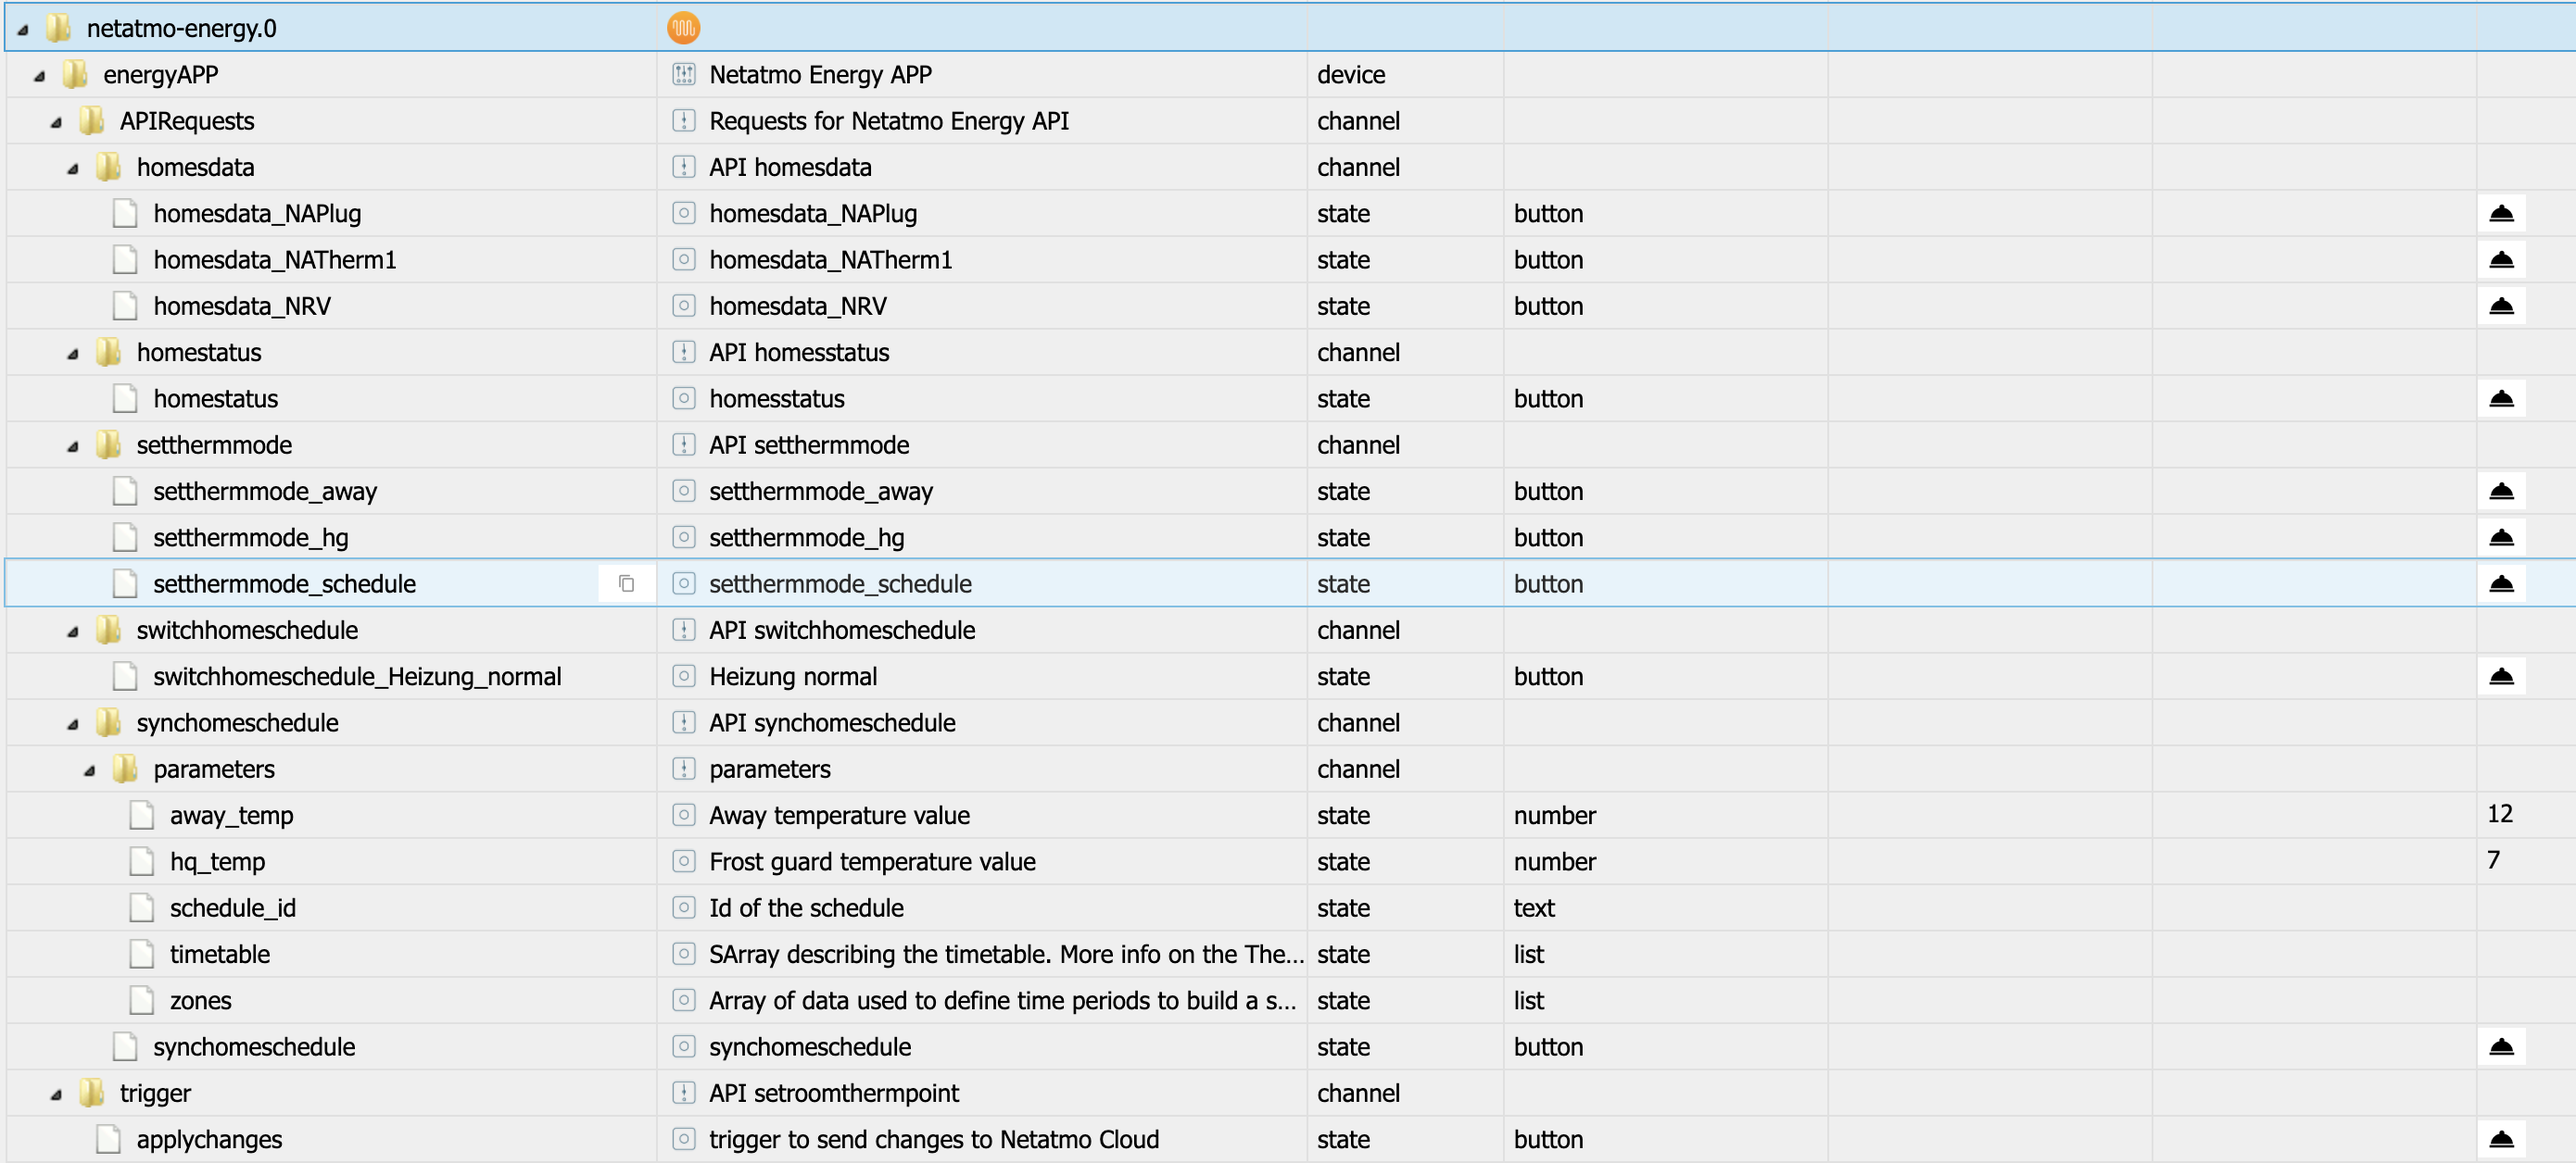
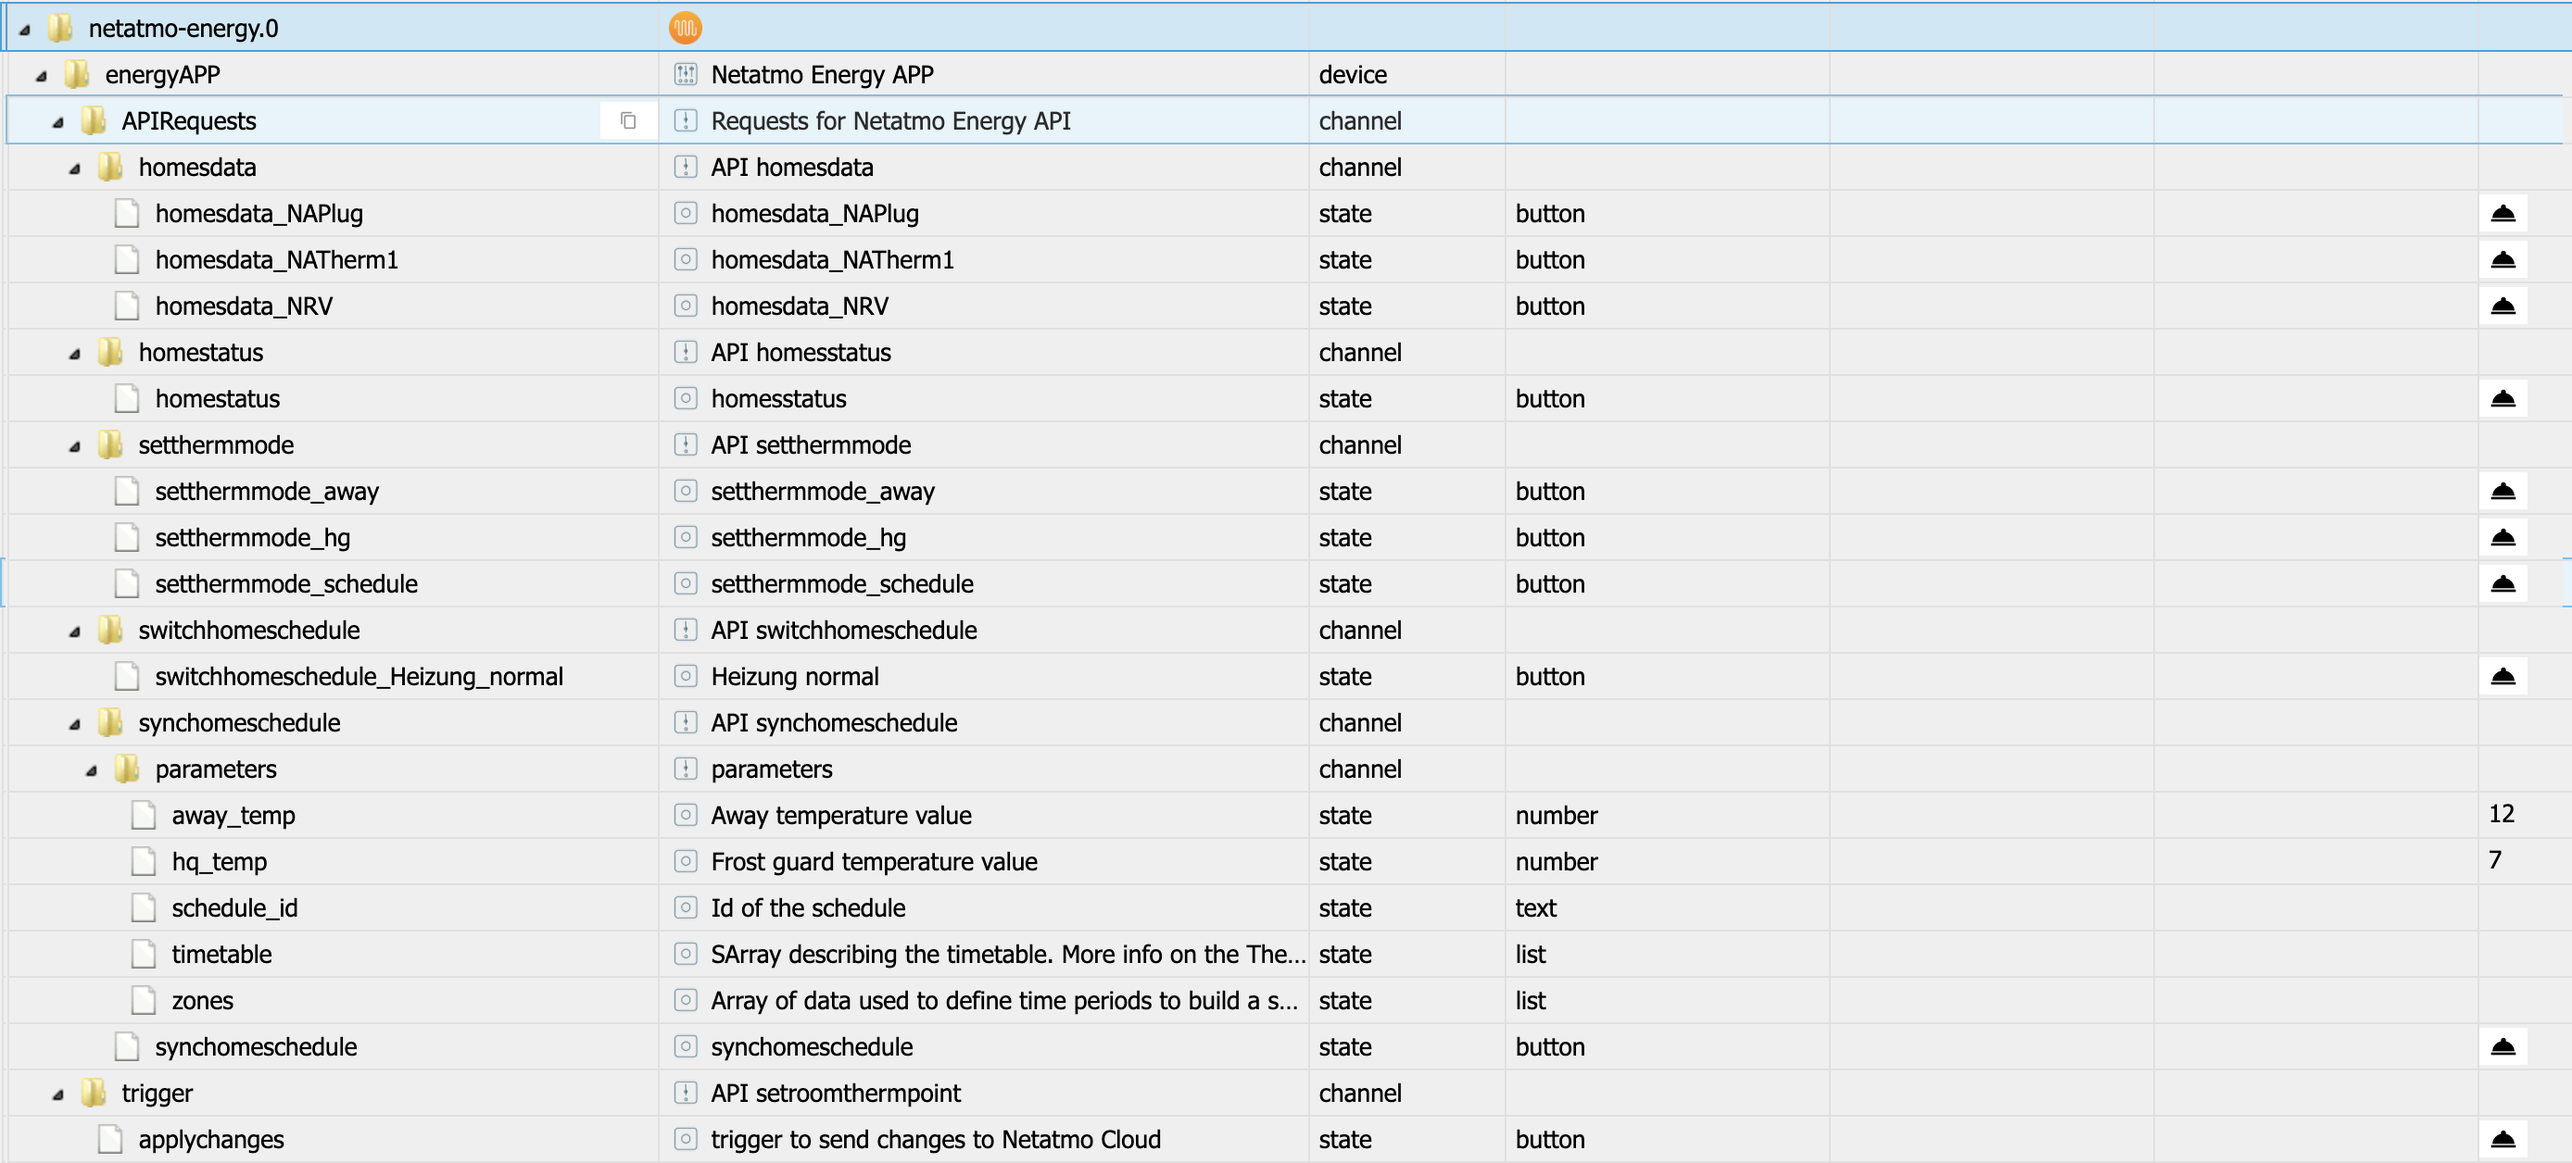
Changed PIC

diff --git a/docs/de/README.md b/docs/de/README.md
@@ -55,7 +55,7 @@ Der Adapter erzeugt ein eigenes Device "energyAPP" welches die "APIRequests" und
 ### Änderungs-Requests
 * setroomthermpoint     ... abhängig von den manuellen Änderungen im Channel "setting" werden die Änderungen an die Netatmo Energy APP übertragen. (entweder sofort oder selbst getriggert - "Temperaturänderungen sofort übertragen")
 
-<img src="https://raw.githubusercontent.com/Homemade-Disaster/ioBroker.netatmo-energy/master/docs/img/EnergyAPP.png" alt="settingsLogin" width="70%"/>
+<img src="https://raw.githubusercontent.com/Homemade-Disaster/ioBroker.netatmo-energy/master/docs/img/EnergyAPP.png" alt="settingsLogin" width="80%"/>
 
 ## Strukturen aufbauen
 Beim Start des Adapters wird der aktuelle Status der gesamten Netatmo Energy APP aufgefrischt und der Status aller Ventile und Thermostate übertragen. Abhängig von den Allgemeinen Einstellungen (API Zustände nach Änderung sofort lesen) werden die Status der Ventile und Thermostate nach Änderung der API sofort wieder abgeholt (es wird sofort ein homestatus Request abgesetzt).

diff --git a/README.md b/README.md
@@ -55,7 +55,7 @@ It also creates a device called "energyAPP" including channels "APIRequests", "t
 ### Update requests
 * setroomthermpoint     ... depending of the "setting" channel it sets the temperature of each room (immediately or by using the trigger "applychanges")
 
-<img src="https://raw.githubusercontent.com/Homemade-Disaster/ioBroker.netatmo-energy/master/docs/img/EnergyAPP.png" alt="settingsLogin" width="70%"/>
+<img src="https://raw.githubusercontent.com/Homemade-Disaster/ioBroker.netatmo-energy/master/docs/img/EnergyAPP.png" alt="settingsLogin" width="80%"/>
 
 ## Build structure
 If you start the adapter it will be generating the actual "homes"-environment of your Netatmo Energy APP.

diff --git a/docs/en/README.md b/docs/en/README.md
@@ -55,7 +55,7 @@ It also creates a device called "energyAPP" including channels "APIRequests", "t
 ### Update requests
 * setroomthermpoint     ... depending of the "setting" channel it sets the temperature of each room (immediately or by using the trigger "applychanges")
 
-<img src="https://raw.githubusercontent.com/Homemade-Disaster/ioBroker.netatmo-energy/master/docs/img/EnergyAPP.png" alt="settingsLogin" width="70%"/>
+<img src="https://raw.githubusercontent.com/Homemade-Disaster/ioBroker.netatmo-energy/master/docs/img/EnergyAPP.png" alt="settingsLogin" width="80%"/>
 
 ## Build structure
 If you start the adapter it will be generating the actual "homes"-environment of your Netatmo Energy APP.
